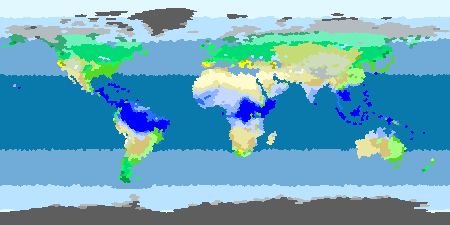
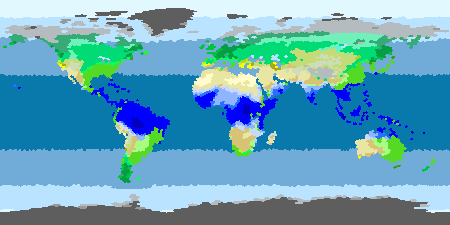
fix bug with aet accumulation

diff --git a/src/main/kotlin/dev/biserman/planet/planet/climate/Hersfeldt.kt b/src/main/kotlin/dev/biserman/planet/planet/climate/Hersfeldt.kt
@@ -711,12 +711,11 @@ object Hersfeldt : ClimateClassifier {
                     soilMoisture = min(soilMoisture, 500.0)
                     aet[i] = pet[i]
                 } else {
-                    val soilEvaporation =
-                        if (soilMoisture < 250) {
-                            min(soilMoisture, (pet[i] - precipitation) * soilMoisture / 250.0)
-                        } else {
-                            pet[i] - precipitation
-                        }
+                    val moistureScalar = min(1.0, soilMoisture / 250.0)
+                    val soilEvaporation = min(
+                        soilMoisture,
+                        (pet[i] - precipitation) * moistureScalar,
+                    )
                     soilMoisture = max(soilMoisture - soilEvaporation, 0.0)
                     aet[i] = precipitation + soilEvaporation
                 }

diff --git a/test/kotlin/dev/biserman/planet/planet/climate/HersfeldtTest.kt b/test/kotlin/dev/biserman/planet/planet/climate/HersfeldtTest.kt
@@ -6,6 +6,26 @@ import org.junit.jupiter.api.Test
 
 class HersfeldtTest {
     @Test
+    fun `AET cannot evaporate more water than precipitation and stored soil moisture`() {
+        val datum = ClimateDatum(
+            tileId = 0,
+            months = List(12) { month ->
+                ClimateDatumSample(
+                    averageTemperature = 20.0,
+                    insolation = 200.0,
+                    precipitation = if (month == 0) 300.0 else 0.0,
+                )
+            },
+        )
+        val pet = List(12) { month -> if (month == 1) 600.0 else 0.0 }
+
+        val aet = Hersfeldt.estimateAet(datum, pet)
+
+        assertEquals(300.0, aet[1])
+        assertEquals(300.0, aet.sum())
+    }
+
+    @Test
     fun `barren land takes priority over aridity`() {
         val diagnostics = diagnostics(
             winterTemperature = 20.0,
